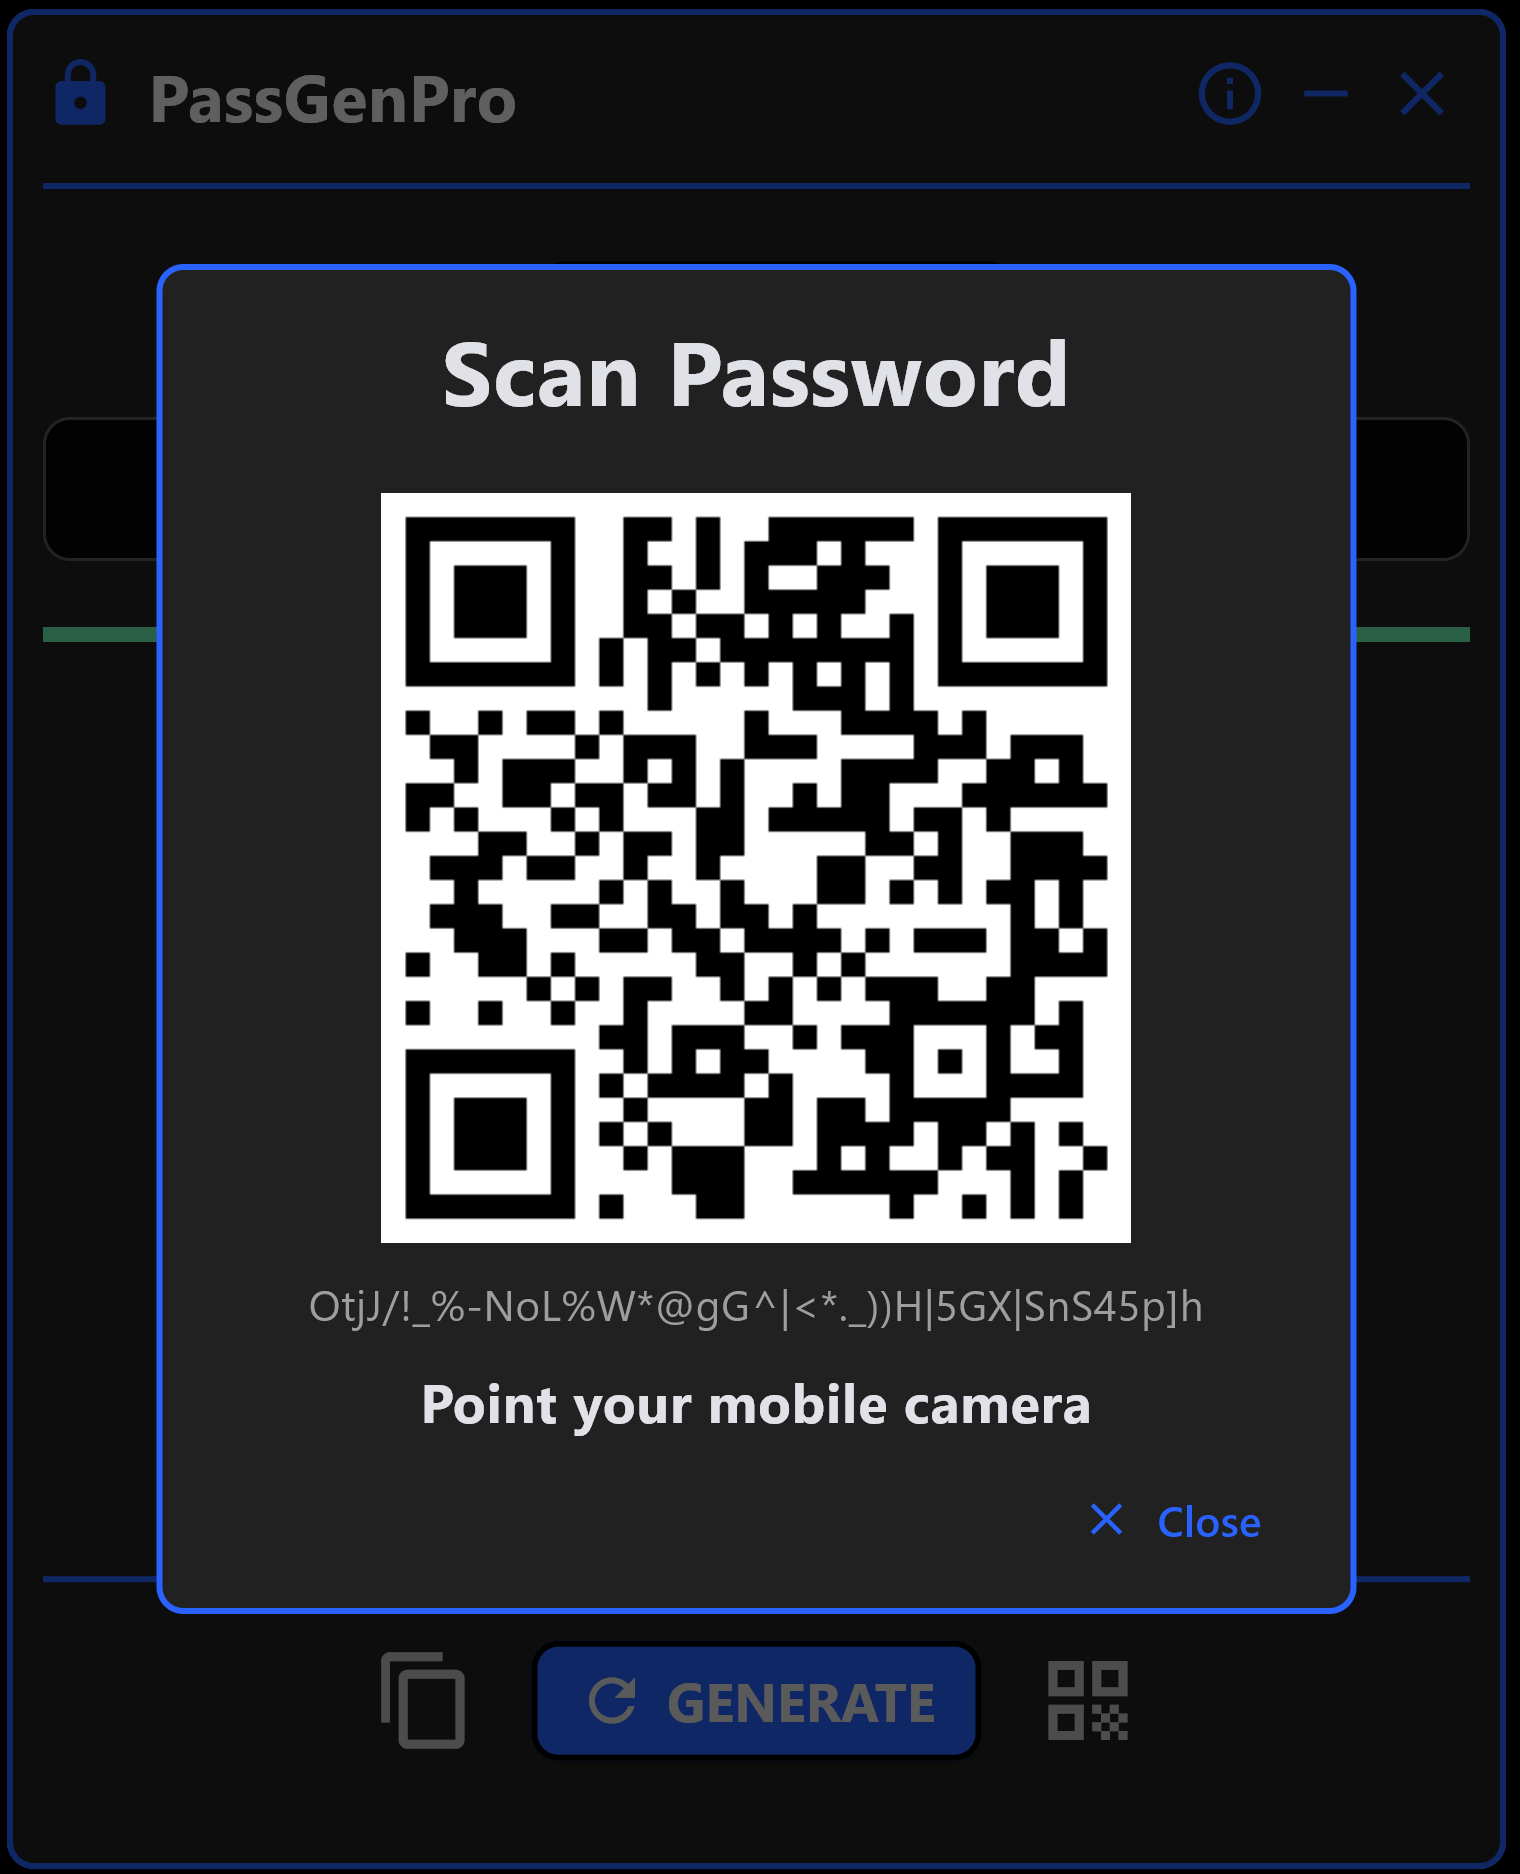
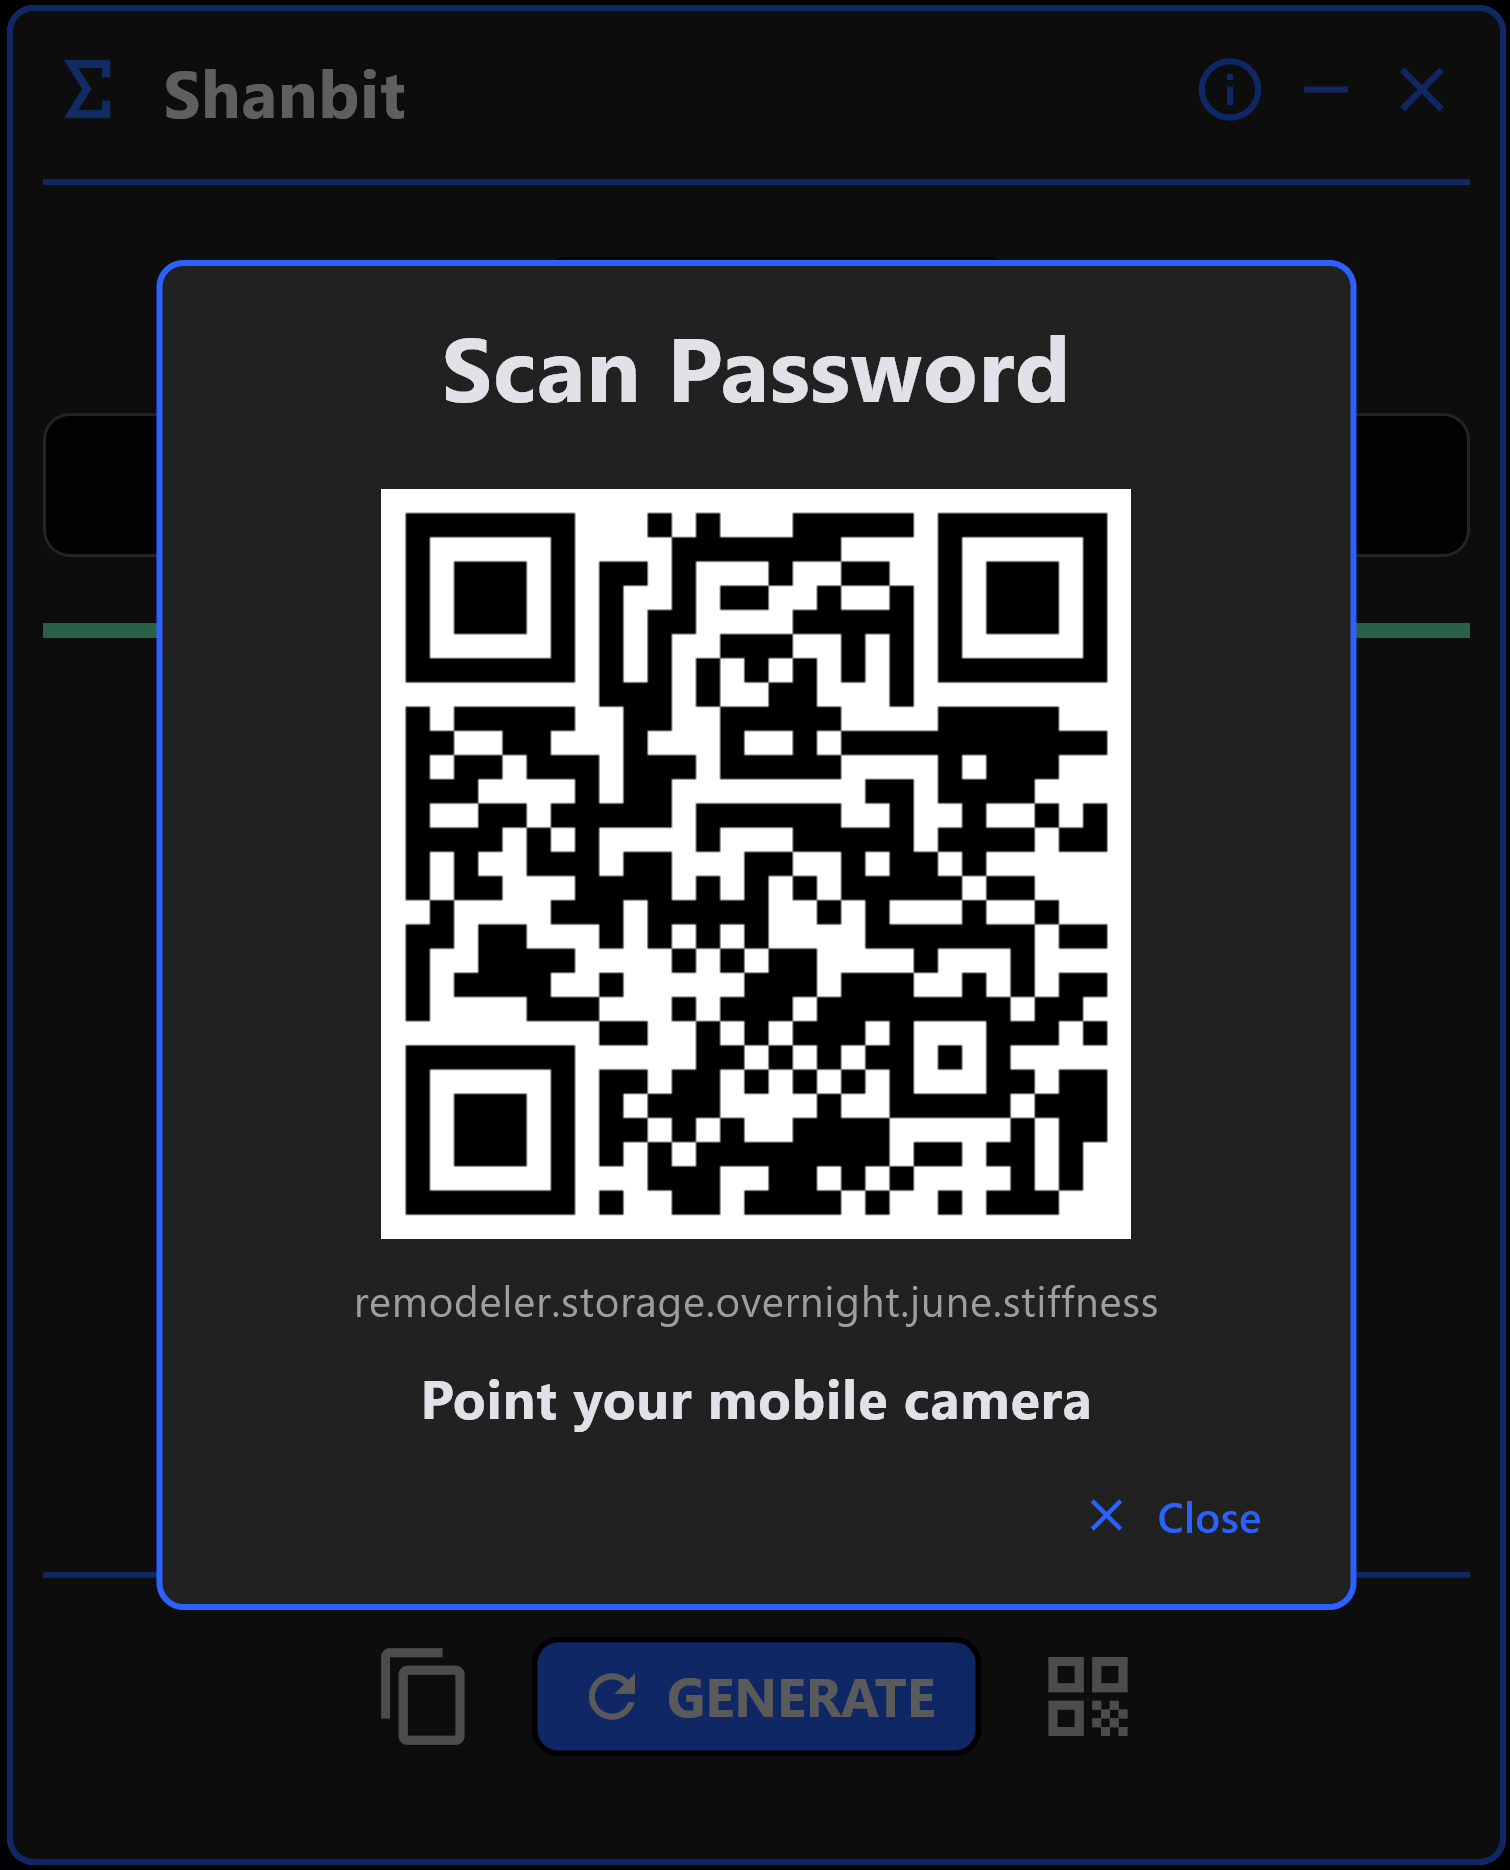
docs: Se cambia nombre de la app, se modifica archivo pad.xml y README

diff --git a/README.md b/README.md
@@ -2,11 +2,11 @@
   <img src="assets/logo_full.png" width="128" alt="PassGenPro Logo">
 </p>
 
-# PassGenPro 🛡
+# Shanbit 🛡
 
 **Native desktop application for generating cryptographic keys and Diceware passphrases.**
 
-PassGenPro is a professional tool built with **Python** and **Flet**, designed under the "Total Privacy" principle. Unlike web-based generators, it operates 100% offline and manages sensitive data exclusively in volatile memory (RAM).
+Shanbit is a professional tool built with **Python** and **Flet**, designed under the "Total Privacy" principle. Unlike web-based generators, it operates 100% offline and manages sensitive data exclusively in volatile memory (RAM).
 
 [![Get it from Microsoft](https://get.microsoft.com/images/en-us%20dark.svg)](https://apps.microsoft.com/detail/9NRKDHPM1V1F)
 
@@ -76,4 +76,5 @@ This repository contains the documentation and technical specifications for the 
 If you would like to discuss specific details regarding the implementation of the security logic or the software architecture, please feel free to contact me.
 
 ---
+
 © 2026 **PybloSoft** | [Technical Support](mailto:support@pyblosoft.com)
